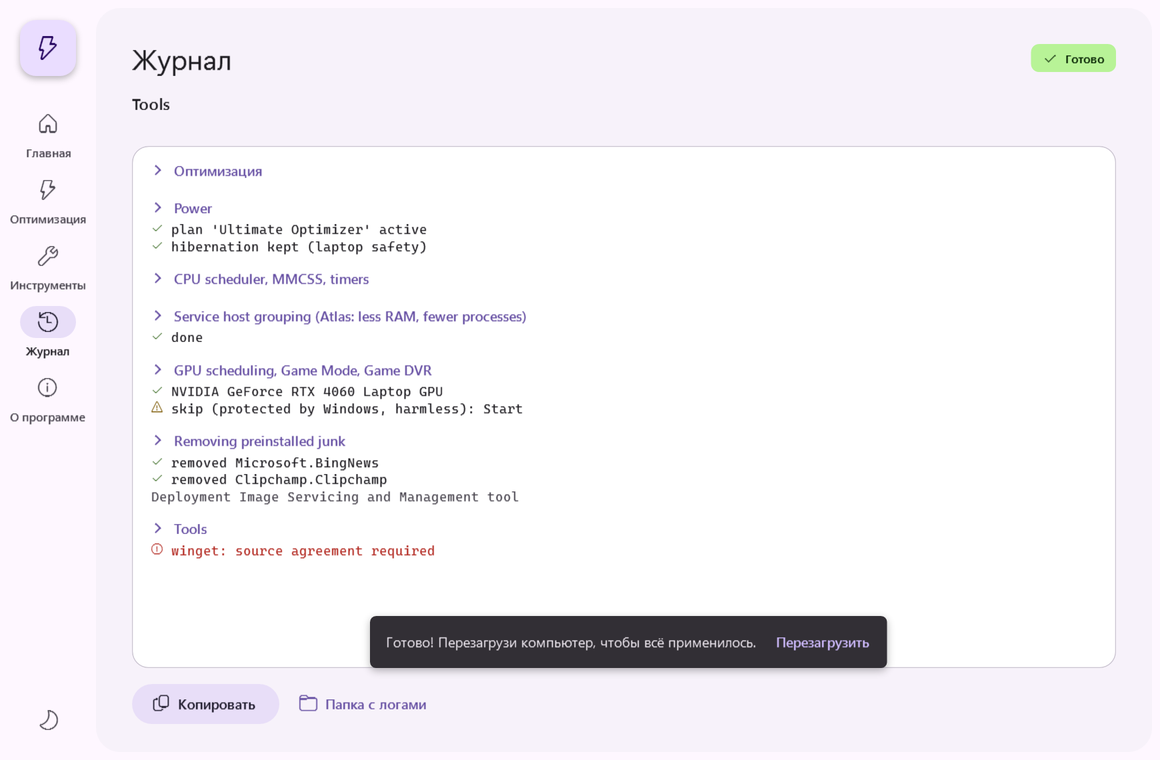
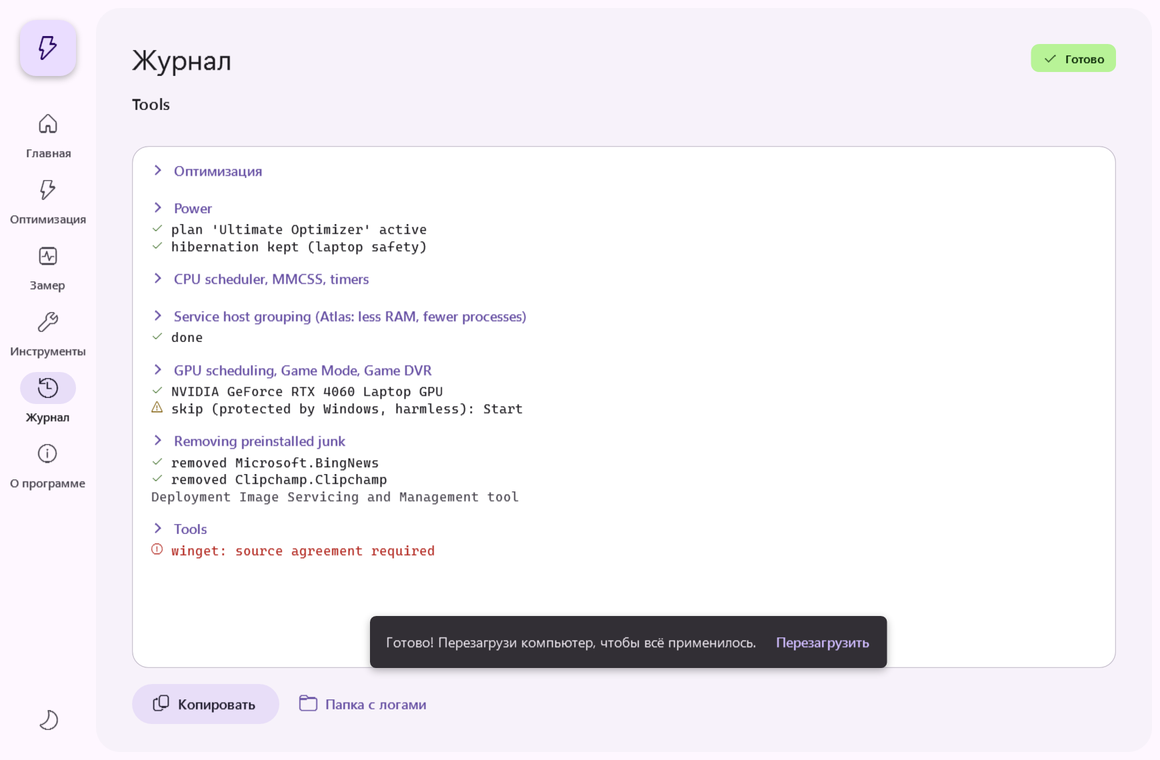
v3.4.0: profiles, per-tweak switches, before/after benchmark
Claude-Session: https://claude.ai/code/session_01XetMs98Q2KW8WsjPMmJwNi

Changed region(s): [[0.0, 0.3329, 0.0621, 0.6658]]

diff --git a/README.md b/README.md
@@ -32,7 +32,9 @@
 | Тёмная тема | Светлая тема |
 |---|---|
 | <img src="docs/screenshots/optimize-dark.png" alt="Оптимизация"> | <img src="docs/screenshots/optimize-light.png" alt="Оптимизация"> |
-| **Оптимизация**: переключатели опций и запуск | |
+| **Оптимизация**: профили и переключатель у каждого из 47 твиков | |
+| <img src="docs/screenshots/bench-dark.png" alt="Замер"> | <img src="docs/screenshots/bench-light.png" alt="Замер"> |
+| **Замер «до» и «после»**: 8 показателей системы | |
 | <img src="docs/screenshots/log-dark.png" alt="Журнал"> | <img src="docs/screenshots/done-light.png" alt="Готово"> |
 | **Журнал**: живой вывод скриптов с прогрессом | В конце предлагается перезагрузка |
 | <img src="docs/screenshots/tools-dark.png" alt="Инструменты"> | <img src="docs/screenshots/tools-light.png" alt="Инструменты"> |
@@ -43,12 +45,46 @@
 | **Автообновление**: баннер новой версии | Тема и настройки обновлений |
 
 - **Главная**: железо ПК, статус оптимизации, подсказки по апгрейду.
-- **Оптимизация**: переключатели опций (программы, optimizerDuck, рискованные пункты) и запуск.
+- **Оптимизация**: профили «Игры», «Ноутбук», «Работа и учёба», «Слабый ПК» и 47 твиков в 9 группах. У каждого твика есть описание и свой переключатель, выбор запоминается.
+- **Замер**: показатели системы «до» и «после» оптимизации.
 - **Инструменты**: починка Windows (DISM + SFC, сброс сети, точки восстановления), отчёт о ПК, optimizerDuck, папки с бэкапом и логами.
 - **Журнал**: живой вывод скриптов с прогрессом. Журнал можно скопировать.
 - **О программе**: тема, автообновление, ссылки.
 
 > Скриншоты рендерятся автоматически в CI (`UltimateOptimizer.exe --screenshots <папка>`) на Windows Server, поэтому в карточках железа видна виртуальная машина.
+
+## Профили и отдельные твики
+
+Каждое изменение — отдельный твик со своим ID, описанием и переключателем. Полный список лежит в [`launcher/ui/tweaks.json`](launcher/ui/tweaks.json).
+
+| Профиль | Что делает |
+|---|---|
+| **Игры** | Всё для максимального FPS и минимальной задержки (по умолчанию) |
+| **Ноутбук** | Без собственного плана питания, точных таймеров и отключения Power Throttling: батарея держит дольше |
+| **Работа и учёба** | Без телеметрии и мусора, игровые настройки не трогаются |
+| **Слабый ПК** | Максимум облегчения: ещё и без прозрачности, минимум программ |
+
+Если поменять любой переключатель, набор станет «своим». Рискованные пункты (VBS, Spectre/Meltdown) по умолчанию выключены во всех профилях. Перед каждой сборкой проверяется, что ID в каталоге и в скрипте совпадают.
+
+Тот же выбор доступен из командной строки:
+
+```powershell
+.\Ultimate-Optimizer.ps1 -Yes -Only power.plan,cpu.mmcss,gpu.gamedvr,ui.mouse
+```
+
+## Замер «до» и «после»
+
+| Показатель | Как измеряется |
+|---|---|
+| Задержка отклика | Время пробуждения потока после сигнала (медиана и 99-й перцентиль, мкс). На него влияют таймеры, планировщик и прерывания. |
+| Фоновая загрузка CPU | Средняя загрузка процессора за 2 секунды простоя |
+| Занято памяти | Физическая ОЗУ |
+| Процессов / работающих служб | Сколько всего запущено |
+| Загрузка Windows | Длительность последней загрузки из журнала Diagnostics-Performance |
+| Автозагрузка | Включённые записи Run и папки «Автозагрузка» |
+| Свободно на диске | Системный диск |
+
+Замер «до» делается сам перед первой оптимизацией, примерно за 5 секунд. Замер «после» делается сам при первом запуске приложения после перезагрузки. Разница показывается в процентах. Измерить можно и вручную, кнопкой «Измерить сейчас».
 
 ## Автообновление
 
@@ -68,7 +104,7 @@
 - **Если чего-то нет в системе, есть запасной вариант.** На Windows 10 нет шрифтов Segoe UI Variable и Fluent Icons — используются Segoe UI и MDL2. Без DWM-атрибутов заголовок окна остаётся стандартным. На старых видеокартах и в RDP включается программная отрисовка WPF.
 - **Ошибки не роняют программу.** Сообщение показывается, подробности пишутся в `C:\ProgramData\UltimateOptimizer\crash.log`.
 - **Сеть**: TLS 1.2 включается принудительно, используются системные настройки прокси.
-- **Проверка в CI.** При каждом изменении на Windows проверяется синтаксис скриптов, PSScriptAnalyzer, сборка, рендер всех экранов и сквозной тест автообновления.
+- **Проверка в CI.** При каждом изменении на Windows проверяется синтаксис скриптов, PSScriptAnalyzer, совпадение каталога твиков со скриптом, сборка, рендер всех экранов, настоящий замер и сквозной тест автообновления.
 
 ## Что делает
 
@@ -121,6 +157,7 @@ Set-ExecutionPolicy -Scope Process Bypass -Force
 .\Ultimate-Optimizer.ps1 -Yes       # без вопросов (рискованное не трогает)
 .\Ultimate-Optimizer.ps1 -NoApps    # без скачивания программ
 .\Ultimate-Optimizer.ps1 -NoDuck    # без optimizerDuck
+.\Ultimate-Optimizer.ps1 -Yes -Only cpu.mmcss,ui.mouse   # только выбранные твики
 .\Ultimate-Optimizer.ps1 -Undo      # откатить всё
 ```
 

diff --git a/CHANGELOG.md b/CHANGELOG.md
@@ -1,5 +1,15 @@
 # Changelog
 
+## v3.4.0
+
+### Новое
+- **Профили одной кнопкой**: «Игры», «Ноутбук», «Работа и учёба», «Слабый ПК».
+- **Выбор отдельных твиков.** Оптимизатор разбит на 47 твиков в 9 группах, у каждого есть описание и свой переключатель. Группы раскрываются и показывают счётчик «N из M». Если поменять переключатель, набор становится «своим». Выбор запоминается.
+- **Замер «до» и «после».** Новый экран с 8 показателями: задержка отклика (медиана и 99-й перцентиль), фоновая загрузка CPU, занятая память, процессы, службы, время загрузки Windows, автозагрузка, свободное место. Разница показывается в процентах. Замер «до» делается сам перед первой оптимизацией, «после» — при первом запуске после перезагрузки.
+- `Ultimate-Optimizer.ps1 -Only id1,id2,...` применяет только выбранные твики. Без `-Only` всё работает как раньше.
+- При сборке проверяется, что ID твиков в `tweaks.json` и в скрипте совпадают.
+- В CI добавлен настоящий замер на Windows.
+
 ## v3.3.0
 
 ### Новое
